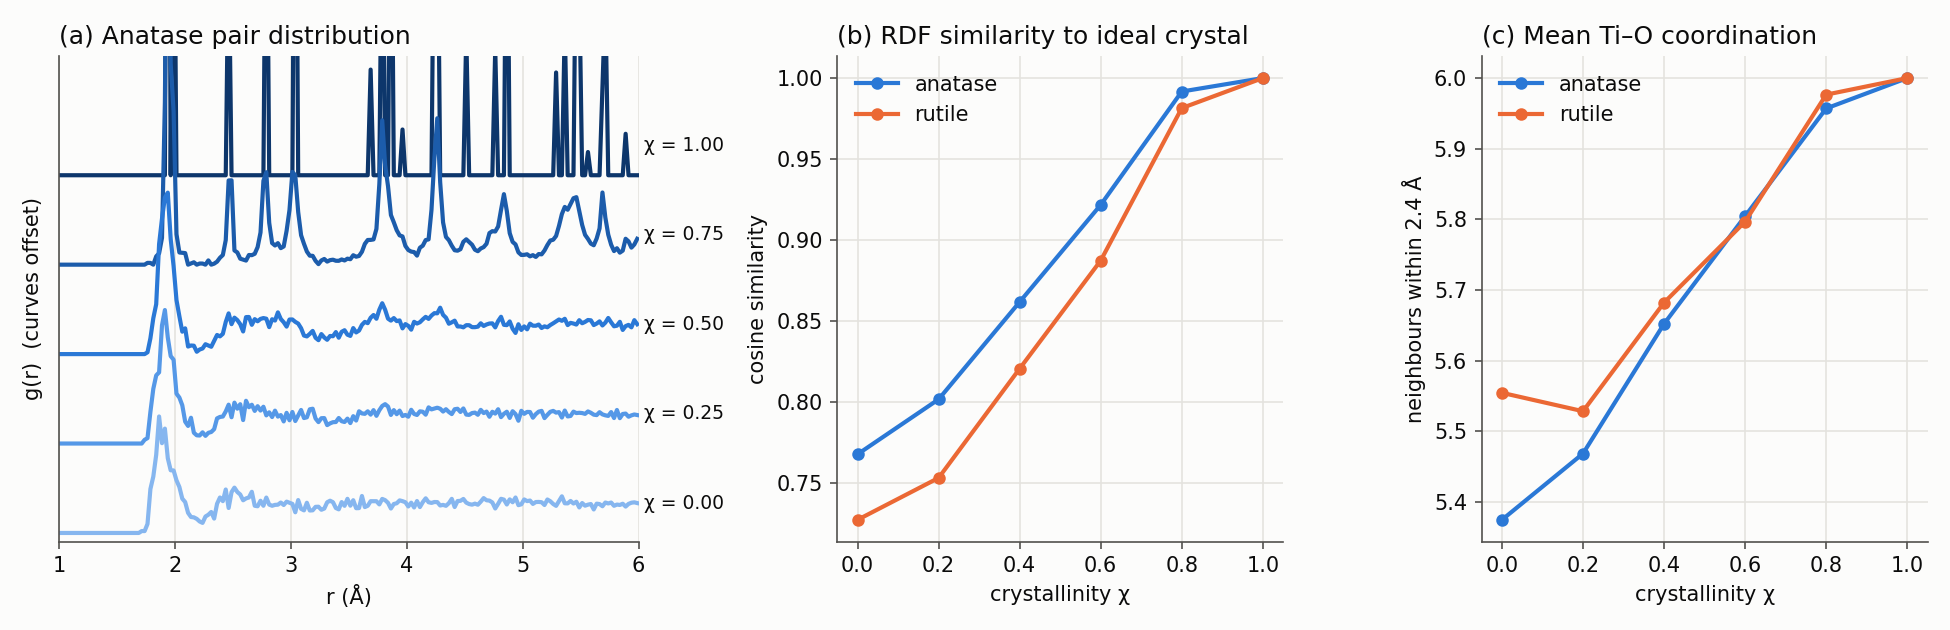
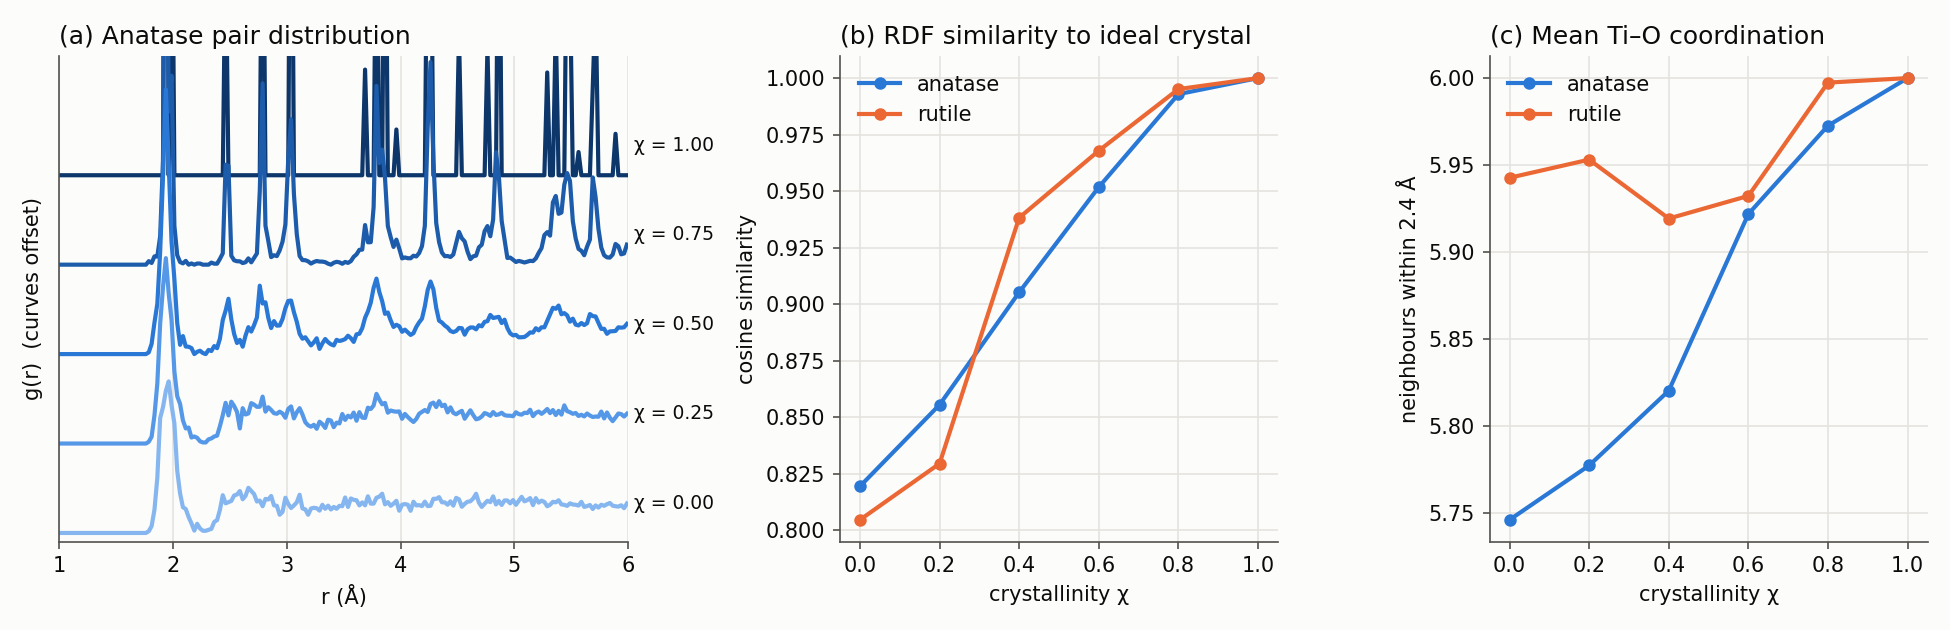
Regenerate the crystallinity sweep figure with the converged quench and update the example's runtime note.

diff --git a/examples/crystallinity_sweep.py b/examples/crystallinity_sweep.py
@@ -3,8 +3,8 @@
 Builds anatase and rutile supercells for several crystallinity values and
 plots (a) the total g(r) of anatase and (b) the RDF similarity to the ideal
 crystal together with (c) the mean Ti coordination number. Disordered
-structures go through the default Matsui-Akaogi quench, so this takes a few
-minutes.
+structures go through the default Matsui-Akaogi quench, run to convergence,
+so this takes about 20 minutes.
 
     python examples/crystallinity_sweep.py            # -> docs/crystallinity_sweep.png
 """
